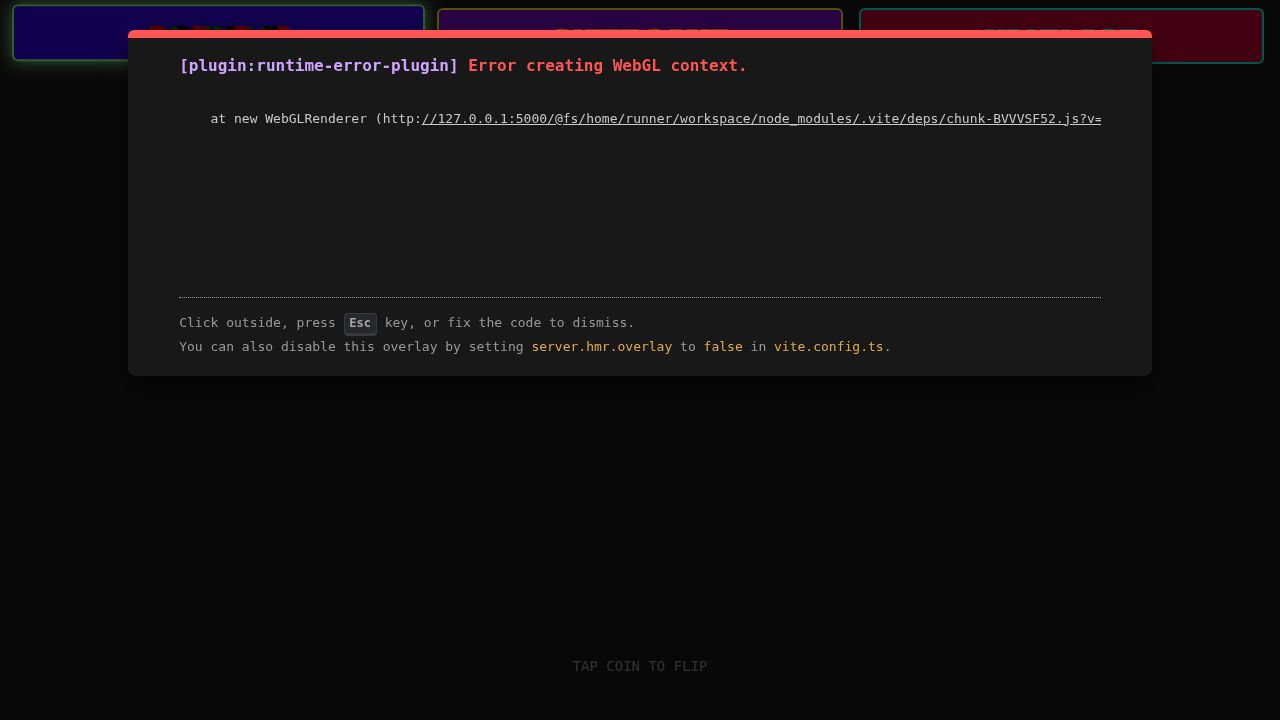
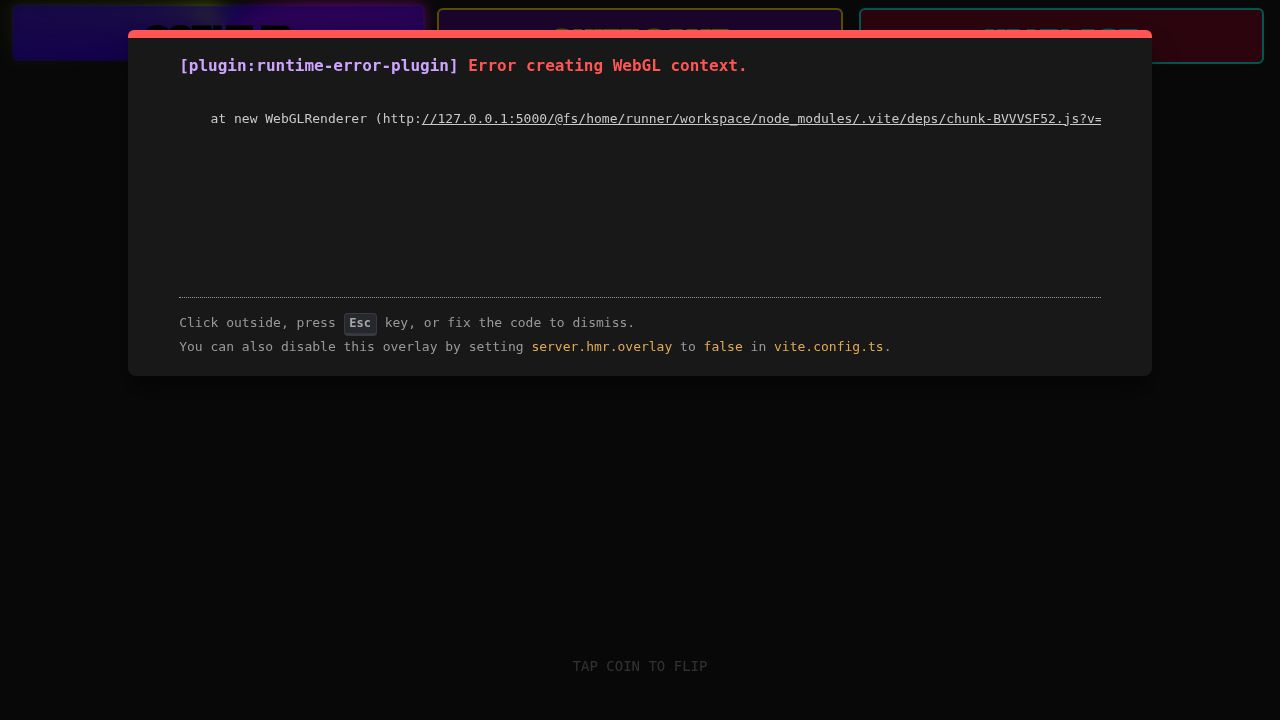
Update active game button styling to use a new lightning effect
Replace the old lightning flash animation with a rotating conic gradient using @property and keyframes, and remove overflow-hidden from the button element to ensure the effect is visible.

Replit-Commit-Author: Agent
Replit-Commit-Session-Id: 5204b397-f2a6-4ccc-92d8-1d4cca77fb58
Replit-Commit-Checkpoint-Type: full_checkpoint
Replit-Commit-Event-Id: 2187efbd-1569-4f23-8ef7-d5649bc76707
Replit-Commit-Screenshot-Url: https://storage.googleapis.com/screenshot-production-us-central1/276e9902-4f5b-442f-8093-76466617e840/5204b397-f2a6-4ccc-92d8-1d4cca77fb58/u6TkNvS
Replit-Helium-Checkpoint-Created: true

Changed region(s): [[0.0, 0.0, 1.0, 0.0917]]

diff --git a/client/src/index.css b/client/src/index.css
@@ -134,20 +134,59 @@
   filter: drop-shadow(0 0 1px rgba(255,255,255,0.5));
 }
 
-@keyframes lightning-flash {
-  0% { box-shadow: 0 0 4px #FF10F0, inset 0 0 2px #FF10F0; border-color: #FF10F0; }
-  10% { box-shadow: 0 0 12px #7FFF00, inset 0 0 6px #7FFF00; border-color: #7FFF00; }
-  20% { box-shadow: 0 0 4px #FF10F0, inset 0 0 2px #FF10F0; border-color: #FF10F0; }
-  30% { box-shadow: 0 0 8px #FF10F0, inset 0 0 4px #FF10F0; border-color: #FF10F0; }
-  40% { box-shadow: 0 0 20px #7FFF00, inset 0 0 10px #7FFF00; border-color: #7FFF00; }
-  50% { box-shadow: 0 0 4px #FF10F0, inset 0 0 2px #FF10F0; border-color: #FF10F0; }
-  60% { box-shadow: 0 0 10px #7FFF00, inset 0 0 5px #7FFF00; border-color: #7FFF00; }
-  70% { box-shadow: 0 0 5px #FF10F0, inset 0 0 2px #FF10F0; border-color: #FF10F0; }
-  80% { box-shadow: 0 0 15px #7FFF00, inset 0 0 8px #7FFF00; border-color: #7FFF00; }
-  90% { box-shadow: 0 0 4px #FF10F0, inset 0 0 2px #FF10F0; border-color: #FF10F0; }
-  100% { box-shadow: 0 0 12px #7FFF00, inset 0 0 6px #7FFF00; border-color: #7FFF00; }
+/* Lightning Border Effect using @property for smooth rotation */
+@property --lightning-angle {
+  syntax: "<angle>";
+  initial-value: 0deg;
+  inherits: false;
+}
+
+@keyframes lightning-spin {
+  0% { --lightning-angle: 0deg; }
+  100% { --lightning-angle: 360deg; }
 }
 
 .lightning-effect {
-    animation: lightning-flash 0.3s infinite steps(4);
+    position: relative;
+    /* Ensure no overflow clipping so the glow can be seen */
+    overflow: visible !important;
+    /* Optional: Ensure z-index allows pseudo-element to be behind */
+    z-index: 1;
+}
+
+.lightning-effect::before {
+    content: "";
+    position: absolute;
+    /* Expand slightly to create the border/glow area */
+    top: -3px; left: -3px; right: -3px; bottom: -3px;
+    z-index: -1;
+    
+    background: conic-gradient(
+        from var(--lightning-angle),
+        transparent 0%,
+        #FF10F0 20%,      /* Pink */
+        transparent 40%,
+        #7FFF00 60%,      /* Chartreuse/Green */
+        transparent 80%,
+        #FF10F0 90%,
+        transparent 100%
+    );
+    
+    border-radius: calc(0.5rem + 2px); /* Slightly larger than button radius (rounded-md = 0.375rem usually, assume 0.5rem) */
+    animation: lightning-spin 2s linear infinite;
+    filter: blur(6px) brightness(1.5);
+}
+
+.lightning-effect::after {
+    /* Inner dark background for the button itself if needed, 
+       but we handle background in the component style. 
+       Just ensuring we don't lose the shape. */
+    content: "";
+    position: absolute;
+    inset: 0;
+    border-radius: 0.375rem; /* rounded-md */
+    z-index: -1;
+    /* The background color set in React style will apply to the button element, 
+       but if we need to mask the center of the conic gradient: */
+    background: inherit; 
 }

diff --git a/client/src/pages/Home.tsx b/client/src/pages/Home.tsx
@@ -109,12 +109,12 @@ function GameTab({ active, onClick, label, bgColor, textColor, className = "" }:
         <motion.button
             onClick={onClick}
             className={`
-                relative h-12 md:h-14 px-1 md:px-6 font-display text-xs sm:text-sm md:text-xl uppercase whitespace-normal overflow-hidden leading-none
+                relative h-12 md:h-14 px-1 md:px-6 font-display text-xs sm:text-sm md:text-xl uppercase whitespace-normal leading-none
                 border-2 rounded-md flex items-center justify-center ${className} ${active ? 'lightning-effect' : ''}
             `}
             style={{
                 backgroundColor: active ? hexToRgba(bgColor, 0.62) : hexToRgba(bgColor, 0.44),
-                borderColor: active ? '#FF10F0' : textColor,
+                borderColor: active ? 'transparent' : textColor,
             }}
             initial={active ? {
                 backgroundColor: hexToRgba(bgColor, 0.62),
